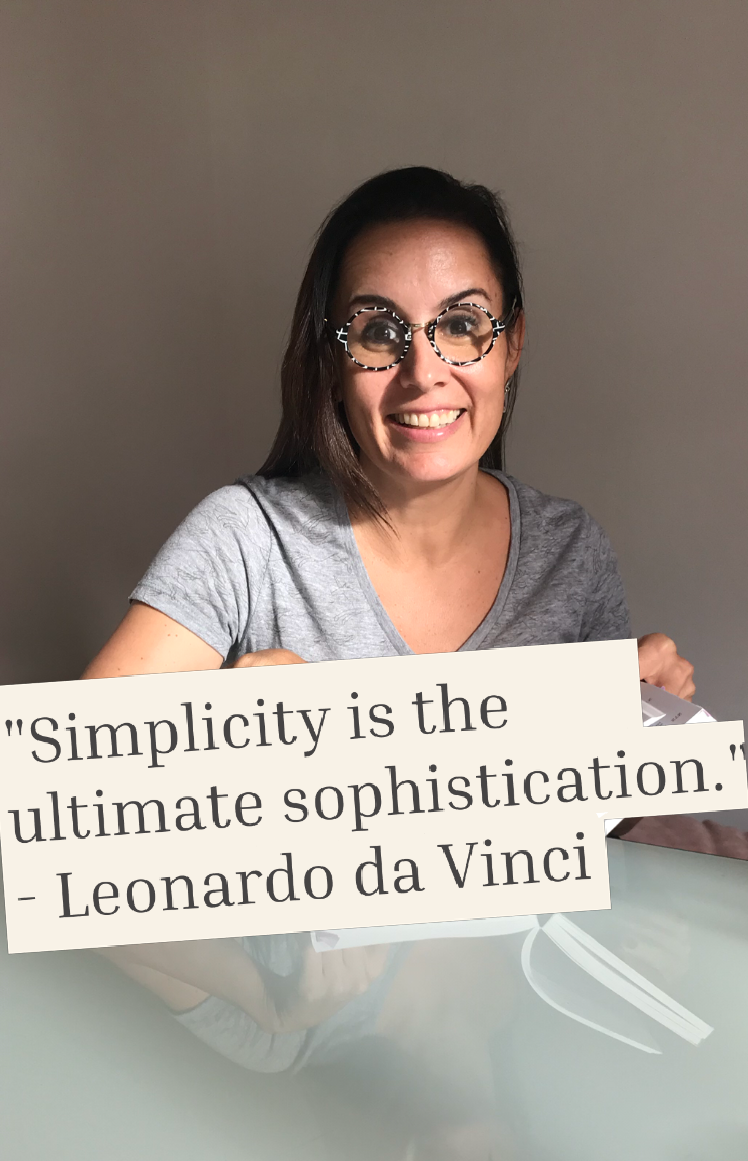
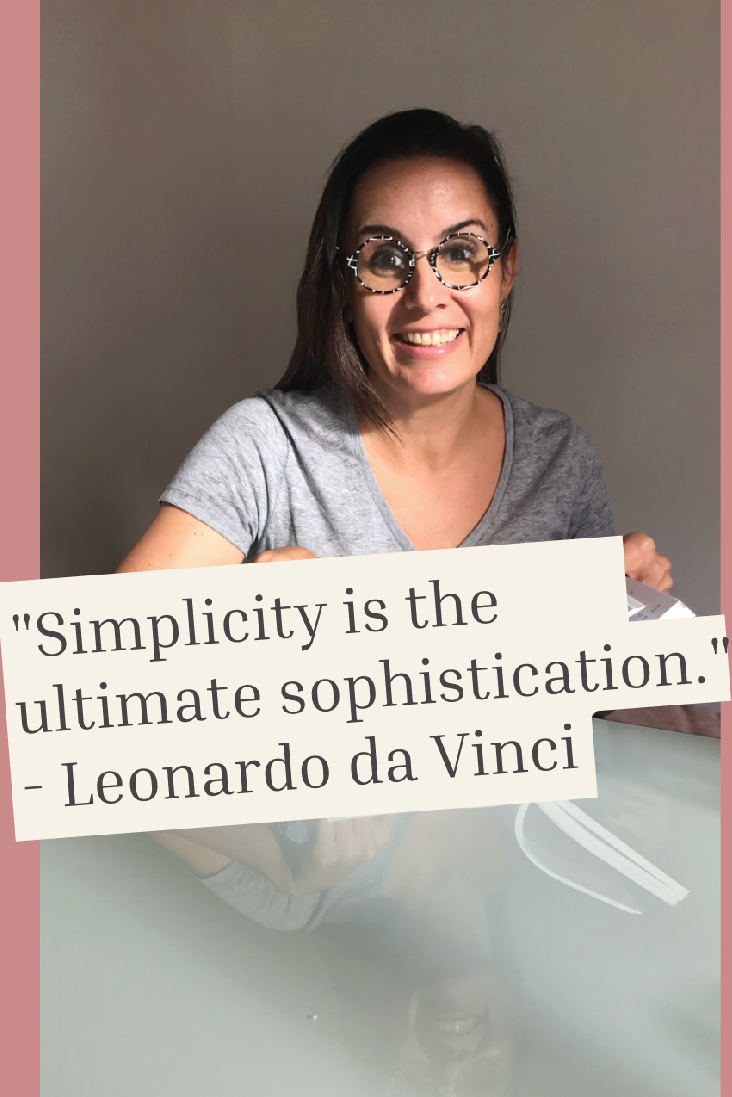
image sizes

diff --git a/src/components/About.js b/src/components/About.js
@@ -1,5 +1,7 @@
 import React from "react";
 import paula from "../images/about__pcv.png";
+import paulamd from "../images/about__pcv-574.png";
+import paulasm from "../images/about__pcv-300.png";
 import { FiFigma } from "react-icons/fi";
 import { FaCss3Alt, FaGitAlt } from "react-icons/fa";
 import { IoLogoJavascript } from "react-icons/io";
@@ -20,10 +22,18 @@ const About = () => {
   return (
     <div className="about" id="home">
       <div className="container">
-        <img
+        <img className="about__img"
           src={paula}
           alt="Smiling woman with a quote of Leonardo da Vinci on top that reads ´Simplicity is the ultimate sophistication´ "
-        />
+        width="748px"/>
+        <img className="about__img-md"
+          src={paulamd}
+          alt="Smiling woman with a quote of Leonardo da Vinci on top that reads ´Simplicity is the ultimate sophistication´ "
+        width="574px"/>
+             <img className="about__img-sm"
+          src={paulasm}
+          alt="Smiling woman with a quote of Leonardo da Vinci on top that reads ´Simplicity is the ultimate sophistication´ "
+        width="300px"/>
         <div className="col-2">
           <h2>About me</h2>
           <span className="line"></span>

diff --git a/src/styles/About.css b/src/styles/About.css
@@ -13,7 +13,12 @@
   display: grid;
   grid-template-columns: repeat(2, 1fr);
 }
-
+.about__img-sm {
+  display: none;
+}
+.about__img-md {
+  display: none;
+}
 .about h2 {
   font-size: 3rem;
   padding-top: 4rem;
@@ -86,6 +91,21 @@
   .about .container {
     width: 100%;
   }
+  .about__img {
+    display: none;
+  }
+  .about__img-sm {
+    display: none;
+  }
+
+
+  .about__img-md {
+    display: block;
+    margin-top: 5rem;
+    padding: 0rem;
+    width: 70vw;
+    justify-self: center;
+  }
 
   p {
     margin: 3rem;
@@ -96,13 +116,6 @@
     padding-right: 3rem;
     font-size: 1.3rem;
   }
-  .about .container img {
-    margin-top: 3rem;
-    padding: 0rem;
-    width: 70vw;
-
-    justify-self: center;
-  }
 
   .about .container .col-2 {
     padding: 0;
@@ -111,4 +124,20 @@
   .about button {
     margin-bottom: 1rem;
   }
+}
+@media screen and (max-width: 480) {
+  .about__img {
+    display: none;
+  }
+  .about__img-md {
+    display: none;
+  }
+  .about__img-sm {
+    display: block;
+    margin-top: 5rem;
+    padding: 0rem;
+    width: 70vw;
+    justify-self: center;
+  }
+
 }
